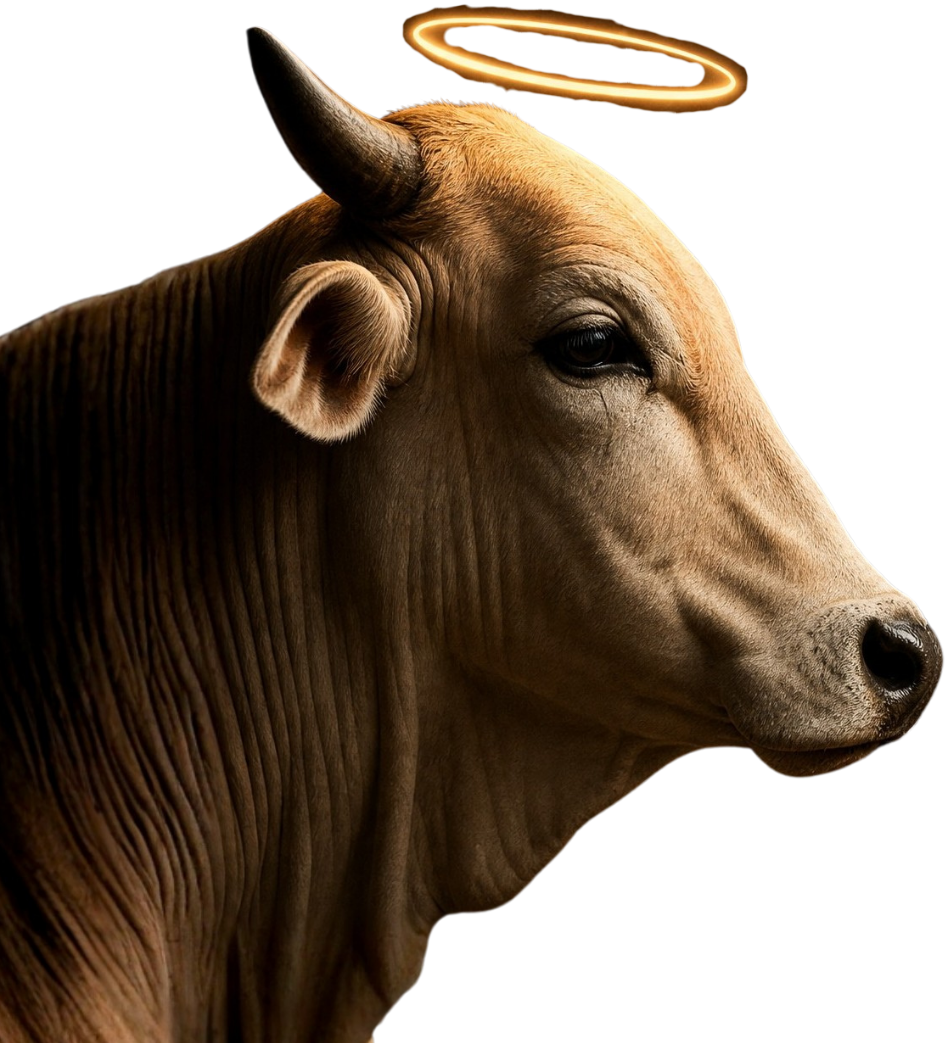
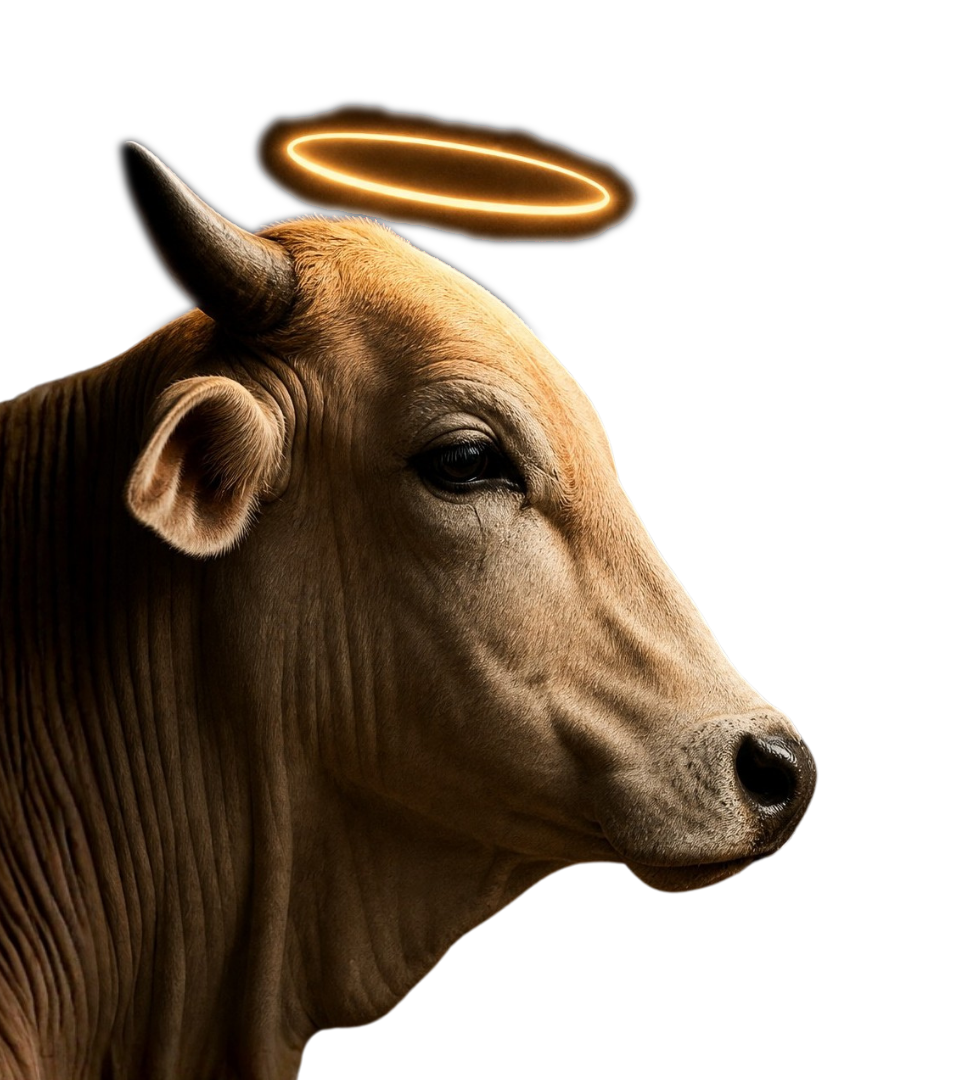
codex: slide 3 PC final — text re-design + position lock + halo alpha softening
- Replaced 3-line "1.2 BILLION" with: 1.2 BILLION (one row) + PEOPLE (15% of all)
- BOW TO THE COW: bold italic orange underlined emphasis (Cinzel 900)
- Main line: "A religion for dogs? In a world this absurd, why the hell not.
  We're crazy enough to mean it — sane enough to actually help them."
- Become Dogyptian CTA + Inter micro-copy "It takes one click..."
- Cow + Hektor positions locked after viewport-drift recalibration:
  cow left:-50 bottom:-80 scale(1.14) origin bottom left
  hektor right:0 bottom:50 scale(1.08) origin bottom right
- LOCK comment block added warning against future PC touches w/o explicit OK
- Halo alpha softening (PIL gaussian blur on alpha channel, halo region only)
  to mitigate "vyrezaná" appearance from upscaling
- Mobile @media block untouched — deferred to next session

diff --git a/src/pages/Codex.tsx b/src/pages/Codex.tsx
@@ -592,7 +592,7 @@ export default function Codex() {
           background: linear-gradient(135deg, #F5C73D 0%, #FFB840 35%, #E69E1A 65%, #F5C73D 100%);
           color: #3a2204;
           font-family: 'Cinzel', serif;
-          font-weight: 700;
+          font-weight: 900;
           font-size: clamp(0.74rem, 1vw, 0.9rem);
           letter-spacing: 0.24em;
           text-transform: uppercase;
@@ -650,26 +650,38 @@ export default function Codex() {
         .codex-bleed.active {
           opacity: 1;
         }
+        /* ╔══════════════════════════════════════════════════════════════════╗
+           ║  🔒 LOCKED 2026-05-24 (hektor posunutý o 50px nižšie na PC)       ║
+           ║  PC NESMIE byť dotknutý bez výslovného povolenia — Matej hrozí    ║
+           ║  právnymi krokmi. Pri akomkoľvek edite v tomto súbore overiť že   ║
+           ║  values nižšie ostávajú nedotknuté:                                ║
+           ║    cow:    left:-50, bottom:-80, scale(1.14) origin bottom left   ║
+           ║    hektor: right:0, bottom:0,  scale(1.08) origin bottom right    ║
+           ║  Mobile (@media max-width:767px) môže byť ladený samostatne.      ║
+           ╚══════════════════════════════════════════════════════════════════╝ */
         .codex-cow,
         .codex-hektor {
           position: absolute;
-          top: 50%;
-          width: auto;
+          bottom: 0;
+          width: 50vw;
+          height: 100vh;
           object-fit: contain;
-          /* black BG of PNG blends with page BG */
         }
         .codex-cow {
-          height: clamp(95vh, 110vh, 126vh);
-          top: 0;
-          left: -16vw;
-          transform: none;
+          left: -50px;
+          bottom: -80px;
+          object-position: bottom left;
+          transform: scale(1.14);
+          transform-origin: bottom left;
         }
         .codex-hektor {
-          height: clamp(95vh, 110vh, 126vh);
-          top: 0;
-          right: -18vw;
-          transform: none;
+          right: 0;
+          bottom: 0;
+          object-position: bottom right;
+          transform: scale(1.08);
+          transform-origin: bottom right;
         }
+        /* ── END LOCK ────────────────────────────────────────────────────── */
         .codex-3-overlay {
           position: relative;
           z-index: 2;
@@ -681,16 +693,47 @@ export default function Codex() {
           width: 100%;
           max-width: 540px;
           margin: 0 auto;
-          padding: clamp(20px, 4vh, 40px) clamp(12px, 2vw, 20px);
+          /* Asymetrický padding: top > bottom posúva text ~50px nižšie
+             (justify-content:center centruje medzi padding edges). Kompenzuje
+             priestor pod viewportom obsadený dots-mi, aby text sedel približne
+             na strede obrazovky. */
+          padding: clamp(100px, 14vh, 140px) clamp(12px, 2vw, 20px) clamp(20px, 4vh, 40px);
           height: 100%;
         }
         .codex-stat-number {
           font-family: 'Cinzel', serif;
           font-weight: 700;
-          font-size: clamp(2.4rem, 6.4vw, 4.8rem);
           letter-spacing: 0.04em;
           line-height: 1;
           margin: 0;
+          display: flex;
+          flex-direction: column;
+          align-items: center;
+          gap: clamp(2px, 0.4vh, 6px);
+        }
+        /* Riadok 1: "1.2 BILLION" — hero veľkosť + gold gradient, inline row */
+        .codex-stat-row {
+          display: flex;
+          align-items: baseline;
+          gap: clamp(0.5em, 1.3vw, 0.75em);
+        }
+        .codex-stat-row-bottom {
+          gap: clamp(0.3em, 0.8vw, 0.45em);
+        }
+        /* Parenthetical: "(15% of all)" — rovnaká veľkosť ako PEOPLE, len tlmená farba + italic */
+        .codex-stat-note {
+          font-family: 'Cinzel', serif;
+          font-weight: 400;
+          font-style: italic;
+          font-size: clamp(1.15rem, 2.4vw, 2.25rem);
+          color: rgba(250,244,236,0.55);
+          letter-spacing: 0.02em;
+          line-height: 1;
+        }
+        .codex-stat-l1,
+        .codex-stat-l2 {
+          font-size: clamp(2.4rem, 6.4vw, 4.8rem);
+          line-height: 1;
           background:
             linear-gradient(135deg, #F5C73D 0%, #FFB840 35%, #E69E1A 65%, #F5C73D 100%);
           -webkit-background-clip: text;
@@ -700,39 +743,84 @@ export default function Codex() {
             drop-shadow(0 0 22px rgba(245,199,61,0.42))
             drop-shadow(0 0 7px rgba(230,158,26,0.5));
         }
+        /* Riadok 2: "PEOPLE" — zjednotená veľkosť s parenthetical, šírka ≤ top row */
+        .codex-stat-l3 {
+          font-size: clamp(1.15rem, 2.4vw, 2.25rem);
+          line-height: 1;
+          color: rgba(250,244,236,0.95);
+          font-weight: 400;
+          filter: drop-shadow(0 0 8px rgba(250,244,236,0.18));
+        }
         .codex-stat-sub {
           font-family: 'Cinzel', serif;
-          font-weight: 500;
+          font-weight: 900;
           font-style: italic;
-          font-size: clamp(0.78rem, 1.1vw, 0.95rem);
-          letter-spacing: 0.16em;
+          font-size: clamp(1.35rem, 2vw, 1.85rem);
+          letter-spacing: 0.14em;
           text-transform: uppercase;
-          color: rgba(201,154,63,0.78);
+          color: #E69E1A;
+          text-decoration: underline;
+          text-decoration-color: #E69E1A;
+          text-decoration-thickness: 2px;
+          text-underline-offset: 4px;
           margin: -8px 0 0;
+          filter: drop-shadow(0 0 10px rgba(230,158,26,0.4));
         }
         .codex-question-big {
           font-family: 'Cinzel', serif;
-          font-weight: 600;
-          font-style: italic;
-          font-size: clamp(1.05rem, 1.8vw, 1.5rem);
-          line-height: 1.4;
-          letter-spacing: 0.02em;
+          font-weight: 400;
+          font-style: normal;
+          font-size: clamp(0.82rem, 1.05vw, 0.98rem);
+          line-height: 1.45;
+          letter-spacing: 0.015em;
           margin: 0;
-          max-width: 460px;
+          max-width: clamp(280px, 26vw, 360px);
           text-wrap: balance;
           color: rgba(250,244,236,0.92);
         }
         .codex-question-big .accent {
           display: block;
           margin-top: 0.4em;
-          background:
-            linear-gradient(135deg, #F5C73D 0%, #FFB840 35%, #E69E1A 65%, #F5C73D 100%);
-          -webkit-background-clip: text;
-          -webkit-text-fill-color: transparent;
-          background-clip: text;
-          filter:
-            drop-shadow(0 0 14px rgba(245,199,61,0.32))
-            drop-shadow(0 0 5px rgba(230,158,26,0.36));
+          color: rgba(250,244,236,0.95);
+          filter: drop-shadow(0 0 10px rgba(250,244,236,0.18));
+        }
+        /* Micro-copy pod CTA — body font (Inter), zúžená na šírku tlačítka */
+        .codex-microcopy {
+          font-family: 'Inter', system-ui, -apple-system, sans-serif;
+          font-weight: 400;
+          font-style: normal;
+          font-size: clamp(0.68rem, 0.82vw, 0.78rem);
+          line-height: 1.4;
+          letter-spacing: 0.01em;
+          color: rgba(250,244,236,0.65);
+          margin: 0;
+          max-width: clamp(240px, 22vw, 320px);
+          text-wrap: balance;
+          text-align: center;
+        }
+        /* Sub-link pod CTA — sekundárny destination signal */
+        .codex-cta-sub {
+          font-family: 'Cinzel', serif;
+          font-weight: 600;
+          font-size: clamp(0.7rem, 0.92vw, 0.82rem);
+          letter-spacing: 0.22em;
+          text-transform: uppercase;
+          color: rgba(201,154,63,0.8);
+          text-decoration: none;
+          border-bottom: 1px solid rgba(201,154,63,0.35);
+          padding-bottom: 2px;
+          transition: color 180ms ease, border-color 180ms ease;
+        }
+        .codex-cta-sub:hover {
+          color: #F5C73D;
+          border-color: rgba(245,199,61,0.7);
+        }
+        /* CTA cluster: micro-copy + button + sub-link as a single tight block */
+        .codex-cta-cluster {
+          display: flex;
+          flex-direction: column;
+          align-items: center;
+          gap: clamp(10px, 1.4vh, 16px);
         }
         @media (max-width: 767px) {
           .codex-cow { height: clamp(72vh, 90vh, 106vh); left: -14vw; top: 0; }
@@ -896,15 +984,26 @@ export default function Codex() {
               {/* Slide 3: cow vs dog — visual (PNGs rendered at page-level below) */}
               <div className="codex-slide codex-slide-3" aria-label="The Question">
                 <div className="codex-3-overlay">
-                  <p className="codex-stat-number">1.2 BILLION</p>
-                  <p className="codex-stat-sub">hold the cow sacred</p>
-                  <p className="codex-question-big">
-                    Will enough of us
-                    <span className="accent">stand for the dog?</span>
+                  <p className="codex-stat-number">
+                    <span className="codex-stat-row">
+                      <span className="codex-stat-l1">1.2</span>
+                      <span className="codex-stat-l2">BILLION</span>
+                    </span>
+                    <span className="codex-stat-row codex-stat-row-bottom">
+                      <span className="codex-stat-l3">PEOPLE</span>
+                      <span className="codex-stat-note">(15% of all)</span>
+                    </span>
                   </p>
-                  <Link to="/heroglyph" className="codex-cta">
-                    Claim Your Heroglyph
-                  </Link>
+                  <p className="codex-stat-sub">bow to the cow</p>
+                  <p className="codex-question-big">
+                    <span className="accent">A religion for dogs? In a world this absurd, why the hell not. We're crazy enough to mean it — sane enough to actually help them.</span>
+                  </p>
+                  <div className="codex-cta-cluster">
+                    <Link to="/heroglyph" className="codex-cta">
+                      Become Dogyptian
+                    </Link>
+                    <p className="codex-microcopy">It takes one click to stand on the right side of history.</p>
+                  </div>
                 </div>
               </div>
             </div>
